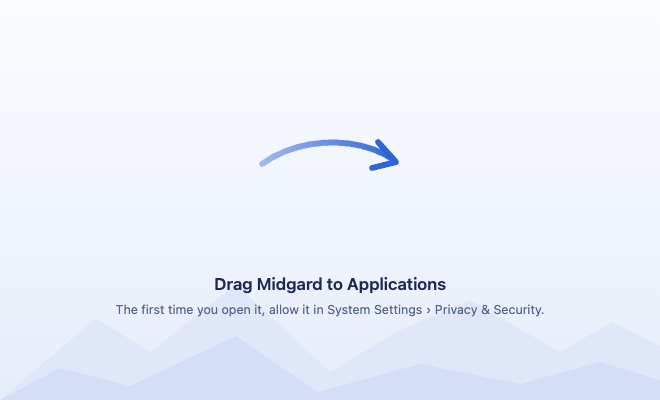
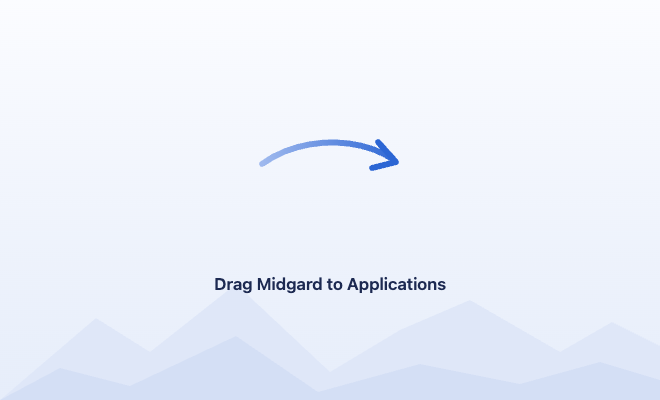
apple: write the version on the disk image's window
A person reporting a problem should be able to say which build they
have. The disk image's window now says it under its title, "Version
0.3.0", where it had the line on allowing the app in System Settings,
which a notarized app no longer needs.

The version is known only at build time, so background.svg leaves the
line out, and build.sh writes it on the 1x and 2x pictures with
stamp.swift before joining them into the TIFF: in CoreText, at the
place, size and color the SVG's comment gives, which draws it as Chrome
draws that line from the SVG. It needs only the Swift that build.sh
already builds the app with (specs/redesign.md §3).

Changed region(s): [[0.1818, 0.75, 0.8182, 0.81]]

diff --git a/apple/Midgard/DMG/stamp.swift b/apple/Midgard/DMG/stamp.swift
@@ -1,0 +1,56 @@
+// stamp writes a line under the title of the disk image's background, in
+// the place and the look background.svg leaves room for: apple/build.sh
+// writes the version there, for a person to say which one they have.
+//
+//	swift stamp.swift <text> <in.png> <out.png> [<in.png> <out.png>]...
+//
+// Each picture is background.svg drawn at some scale, which its width tells.
+import AppKit
+
+let args = CommandLine.arguments
+guard args.count >= 4, args.count % 2 == 0 else {
+    FileHandle.standardError.write("usage: stamp <text> <in.png> <out.png> [<in.png> <out.png>]...\n".data(using: .utf8)!)
+    exit(2)
+}
+let text = args[1]
+
+// as background.svg's line: centred at x 330, on y 314 from the top, 12.5pt
+let (width, height) = (660.0, 400.0)
+let (x, baseline, size) = (330.0, 314.0, 12.5)
+let color = CGColor(srgbRed: 0x56 / 255.0, green: 0x64 / 255.0, blue: 0x8a / 255.0, alpha: 1)
+
+for i in stride(from: 2, to: args.count, by: 2) {
+    guard let image = NSImage(contentsOfFile: args[i]),
+          let picture = image.cgImage(forProposedRect: nil, context: nil, hints: nil),
+          let ctx = CGContext(data: nil, width: picture.width, height: picture.height, bitsPerComponent: 8,
+                              bytesPerRow: 0, space: CGColorSpace(name: CGColorSpace.sRGB)!,
+                              bitmapInfo: CGImageAlphaInfo.premultipliedLast.rawValue)
+    else {
+        FileHandle.standardError.write("stamp: cannot read \(args[i])\n".data(using: .utf8)!)
+        exit(1)
+    }
+    ctx.draw(picture, in: CGRect(x: 0, y: 0, width: picture.width, height: picture.height))
+    // in the SVG's points, so that the type is 12.5pt at every scale
+    let scale = Double(picture.width) / width
+    ctx.scaleBy(x: scale, y: scale)
+    let line = CTLineCreateWithAttributedString(NSAttributedString(string: text, attributes: [
+        .font: NSFont.systemFont(ofSize: size),
+        NSAttributedString.Key(kCTForegroundColorAttributeName as String): color,
+    ]))
+    let advance = CTLineGetTypographicBounds(line, nil, nil, nil)
+    ctx.textPosition = CGPoint(x: x - advance / 2, y: height - baseline)
+    CTLineDraw(line, ctx)
+
+    guard let stamped = ctx.makeImage(),
+          let png = NSBitmapImageRep(cgImage: stamped).representation(using: .png, properties: [:])
+    else {
+        FileHandle.standardError.write("stamp: cannot draw \(args[i + 1])\n".data(using: .utf8)!)
+        exit(1)
+    }
+    do {
+        try png.write(to: URL(fileURLWithPath: args[i + 1]))
+    } catch {
+        FileHandle.standardError.write("stamp: \(error.localizedDescription)\n".data(using: .utf8)!)
+        exit(1)
+    }
+}

diff --git a/apple/Midgard/DMG/settings.py b/apple/Midgard/DMG/settings.py
@@ -1,7 +1,8 @@
 # The disk image's window, for dmgbuild, which apple/build.sh runs: Midgard
 # on the left, Applications on the right, and between them the arrow of
 # background.svg (drawn at 1x and 2x in background.png and background@2x.png,
-# which build.sh joins into one TIFF, the form Finder shows).
+# on which build.sh writes the version, with stamp.swift, and joins into one
+# TIFF, the form Finder shows).
 #
 # The background is light: on a picture, Finder draws the labels under the
 # icons black, whatever the Mac's appearance.
